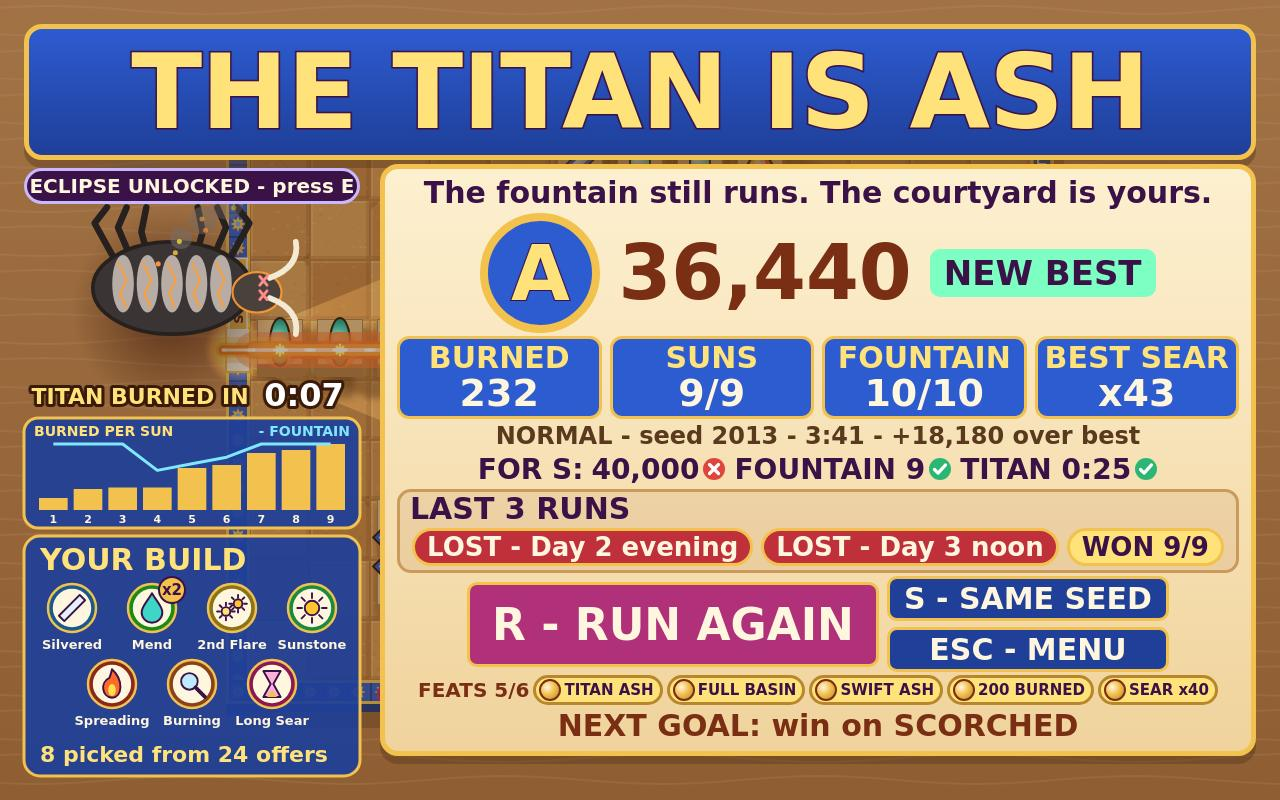
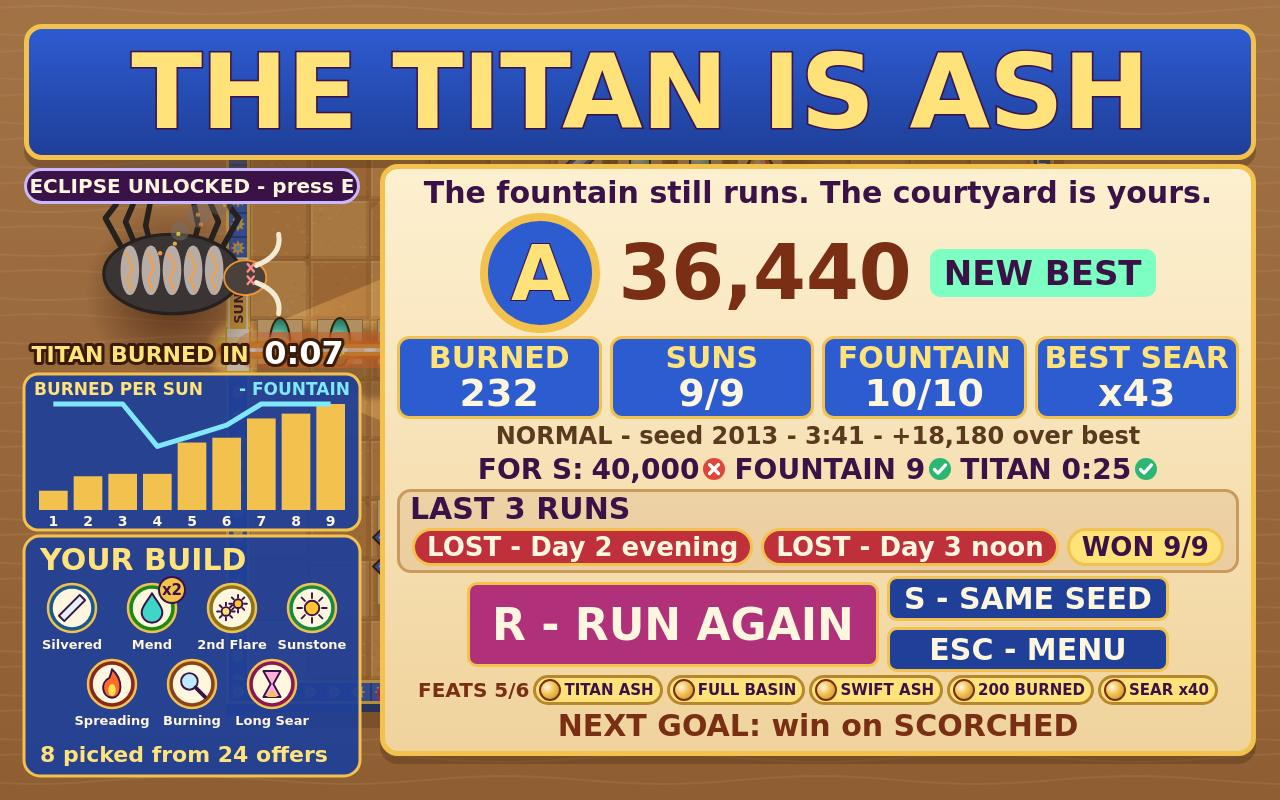
Results: per-sun chart enlarged to read in the 252 px cell (taller bars, bigger axis words and sun numbers, thicker fountain line); Titan re-fitted above it

Changed region(s): [[0.0, 0.25, 0.2812, 0.6875]]

diff --git a/game/src/render/results.js b/game/src/render/results.js
@@ -218,15 +218,15 @@ function drawSunChart(ctx, run, x, y, w, h) {
   ctx.lineWidth = 3;
   ctx.stroke();
   ctx.textAlign = 'left';
-  ctx.font = '900 14px system-ui, sans-serif';
+  ctx.font = '900 17px system-ui, sans-serif';
   ctx.fillStyle = '#FFE27A';
-  ctx.fillText('BURNED PER SUN', x + 10, y + 18);
+  ctx.fillText('BURNED PER SUN', x + 10, y + 21);
   ctx.fillStyle = '#7FE8FF';
   ctx.textAlign = 'right';
-  ctx.fillText('- FOUNTAIN', x + w - 10, y + 18);
+  ctx.fillText('- FOUNTAIN', x + w - 10, y + 21);
   const n = Math.max(suns.length, 1);
-  const top = y + 26;
-  const base = y + h - 18;
+  const top = y + 30;
+  const base = y + h - 20;
   const left = x + 12;
   const span = w - 24;
   const slot = span / Math.max(n, WAVE_COUNT);
@@ -237,11 +237,11 @@ function drawSunChart(ctx, run, x, y, w, h) {
     ctx.fillRect(left + k * slot + 3, base - bh, slot - 6, bh);
     ctx.fillStyle = '#FFF6DF';
     ctx.textAlign = 'center';
-    ctx.font = '800 11px system-ui, sans-serif';
-    ctx.fillText(String(k + 1), left + k * slot + slot / 2, base + 13);
+    ctx.font = '800 14px system-ui, sans-serif';
+    ctx.fillText(String(k + 1), left + k * slot + slot / 2, base + 16);
   });
   ctx.strokeStyle = '#7FE8FF';
-  ctx.lineWidth = 3;
+  ctx.lineWidth = 5;
   ctx.beginPath();
   suns.forEach((s, k) => {
     const px = left + k * slot + slot / 2;
@@ -259,10 +259,10 @@ export function drawResultsHero(ctx, run, time) {
   const won = run.phase === 'won';
   if (won) {
     // A won run needs no sun track (SUNS 9/9 and the WON chip say it): the Titan takes the space.
-    drawTitanCarcass(ctx, HERO.x, HERO.y - 56, 0.72, time);
+    drawTitanCarcass(ctx, HERO.x, HERO.y - 70, 0.62, time);
     if (run.stats.titanSeconds !== undefined) {
-      caption(ctx, 'TITAN BURNED IN', 140, 404, 22, '#FFE27A');
-      caption(ctx, clock(run.stats.titanSeconds), 304, 406, 32, '#FFFFFF');
+      caption(ctx, 'TITAN BURNED IN', 140, 362, 22, '#FFE27A');
+      caption(ctx, clock(run.stats.titanSeconds), 304, 364, 32, '#FFFFFF');
     }
   } else {
     ctx.fillStyle = 'rgba(31,63,153,0.92)';
@@ -275,7 +275,7 @@ export function drawResultsHero(ctx, run, time) {
     drawSunTrack(ctx, 48, 193, 36, 12, run.stats.wavesCleared, run.waveIndex);
     drawDrainedFountain(ctx, HERO.x, HERO.y - 30, 0.7);
   }
-  drawSunChart(ctx, run, 24, 418, 336, 110);
+  drawSunChart(ctx, run, 24, 374, 336, 156);
   ctx.fillStyle = 'rgba(31,63,153,0.92)';
   ctx.beginPath();
   ctx.roundRect(24, 536, 336, 240, 16);

diff --git a/NOTES.md b/NOTES.md
@@ -506,6 +506,13 @@
   already in. Cover tick now 4484: three numbers (+120 SEAR x4, +40 SEAR x2, +20), ash puffs, SEAR x4,
   quartz 7 (4 of 5 cards lit, prism greyed), run still wins.
 
+- Item 4 (results part): the per-sun chart is 336 x 156 (was 110 tall) with 17 px axis words, 14 px sun
+  numbers and a 5 px fountain line, so the bars read in the 252 px results cell; the Titan is drawn at 0.62
+  (about 200 px) and TITAN BURNED IN 0:07 moved up to make room. Big grade ring and score and the 4-tile
+  stat grid were already there. Not done this run: a larger title rules table (28 px two-column rows do not
+  fit at 30 px) and the draft card restyle; item 5's "selected glass tooltip on the cover" would replace the
+  GLASS legend there (removed info), so the build cards keep their effect line instead.
+
 ## Next
 - READY FOR A/B (01:00 UTC): bold beams + the three cues on top of 61673e1 (FEATS, GLASS legend,
   INCOMING tags, HUD buttons, SUNSTONE chip, title rules table kept). Verified on the final state:
